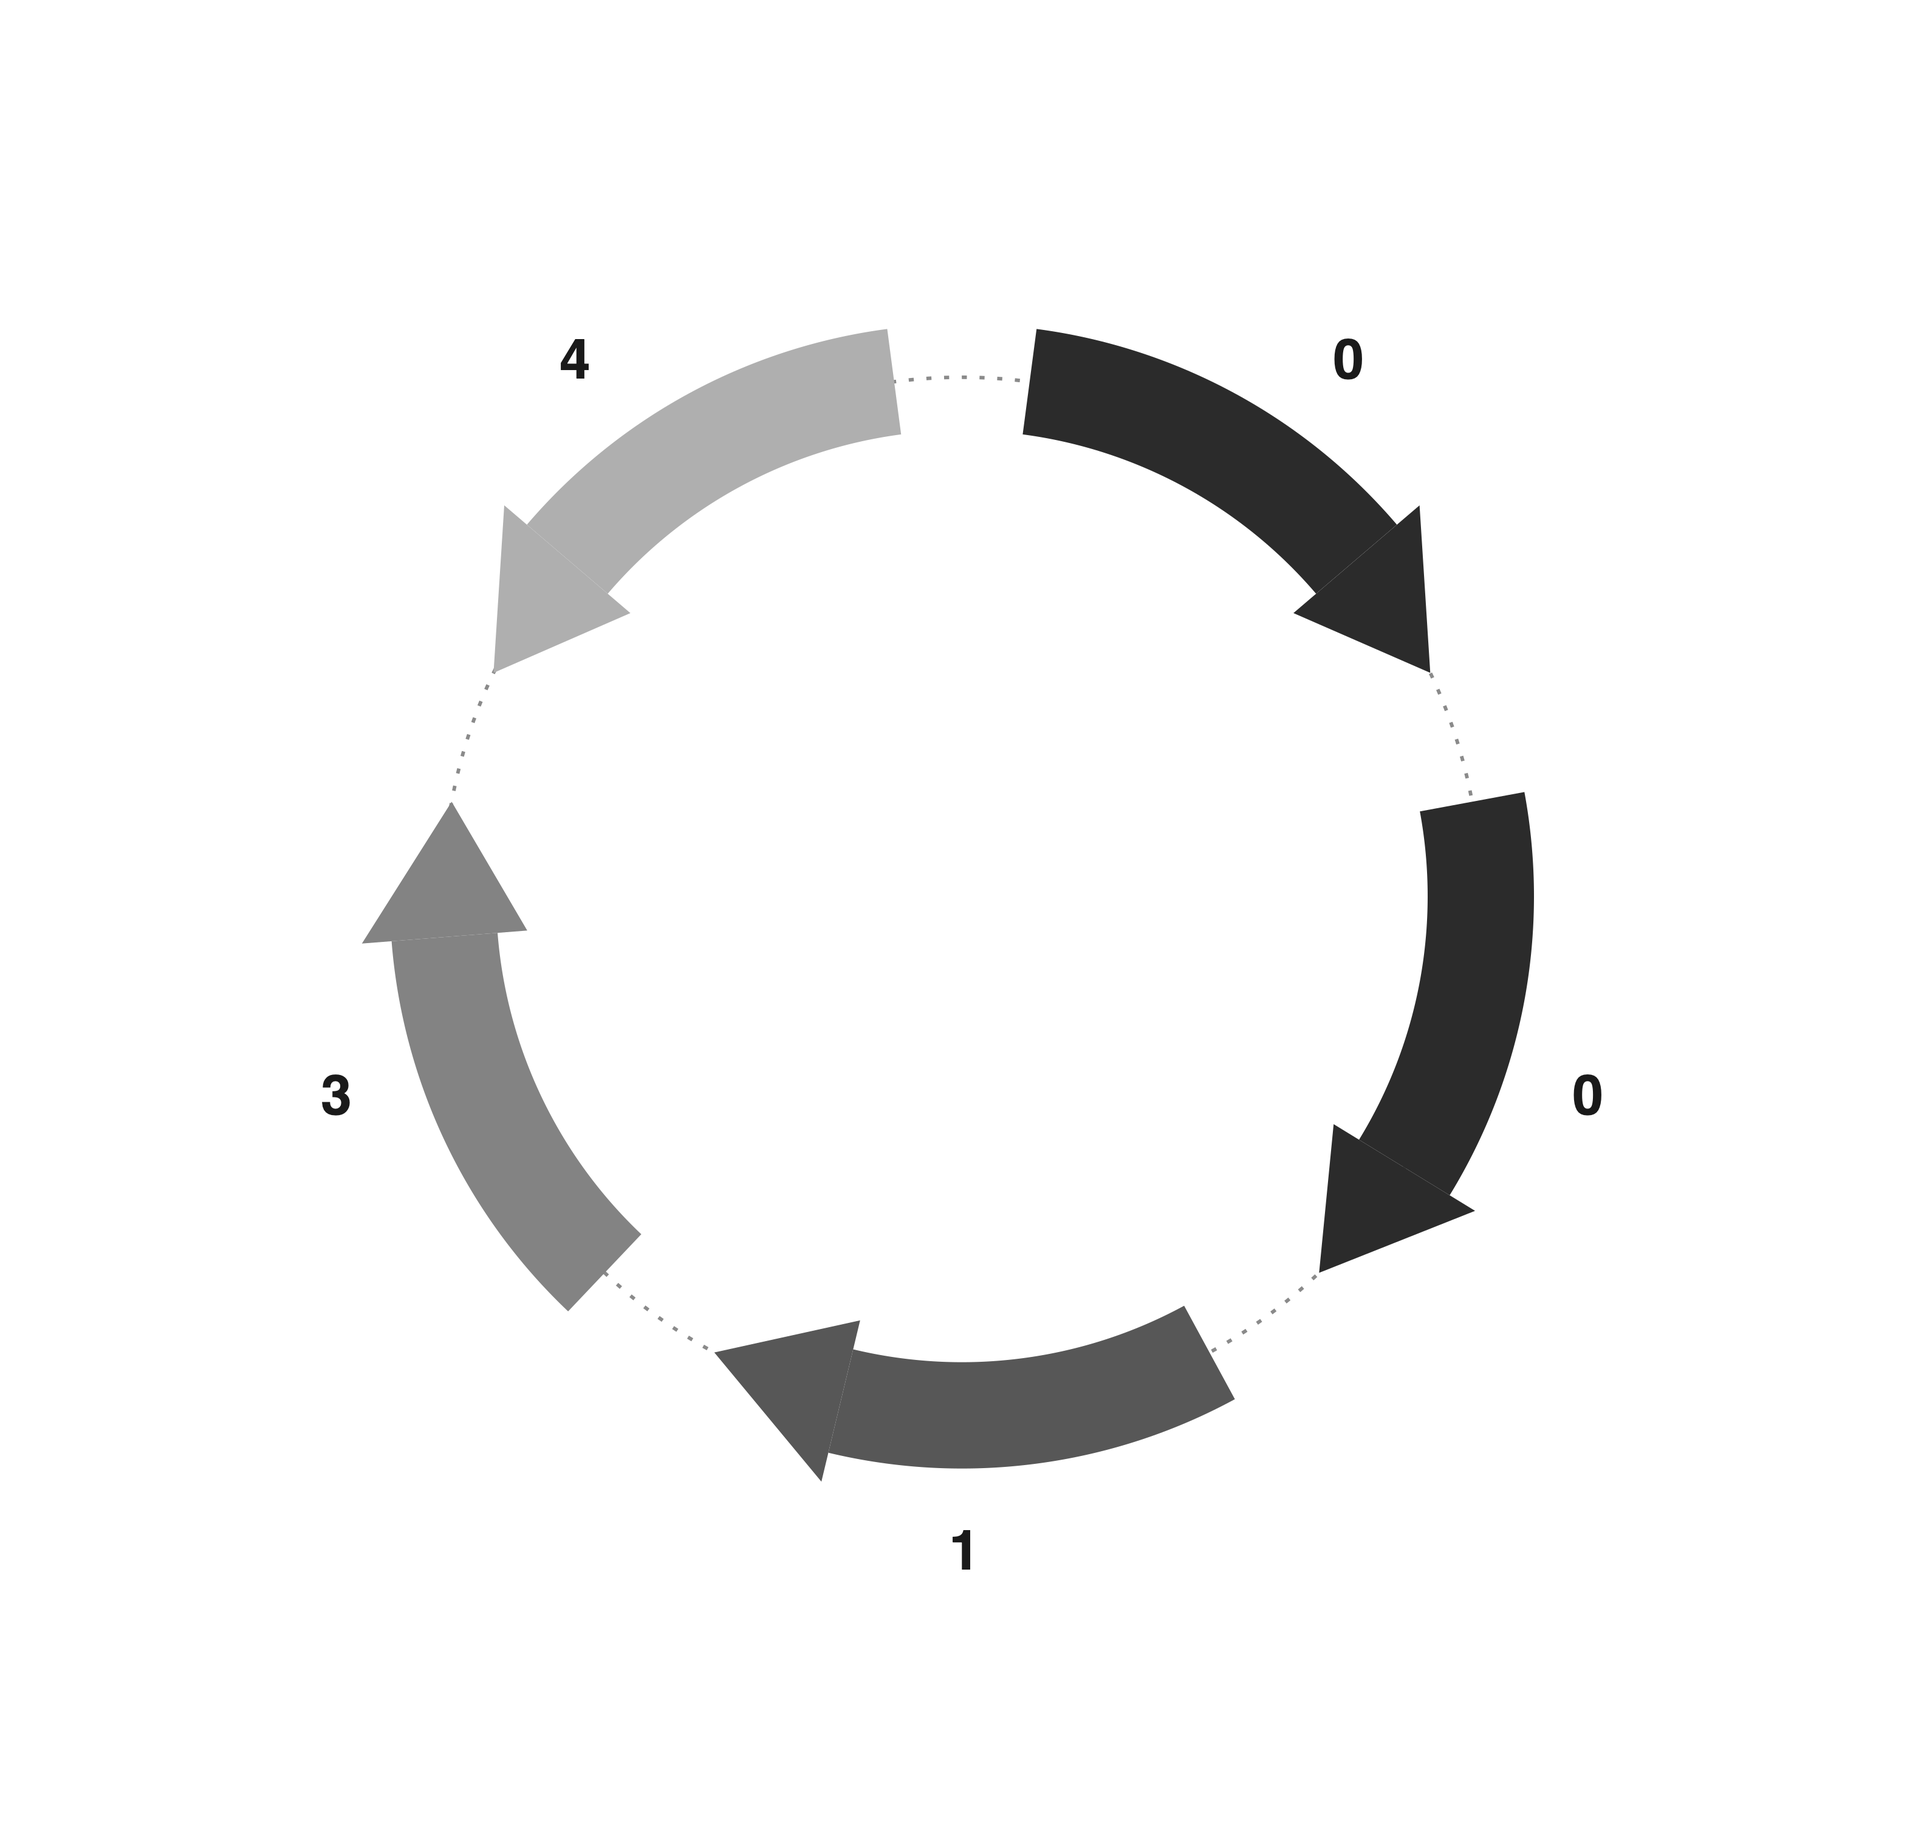
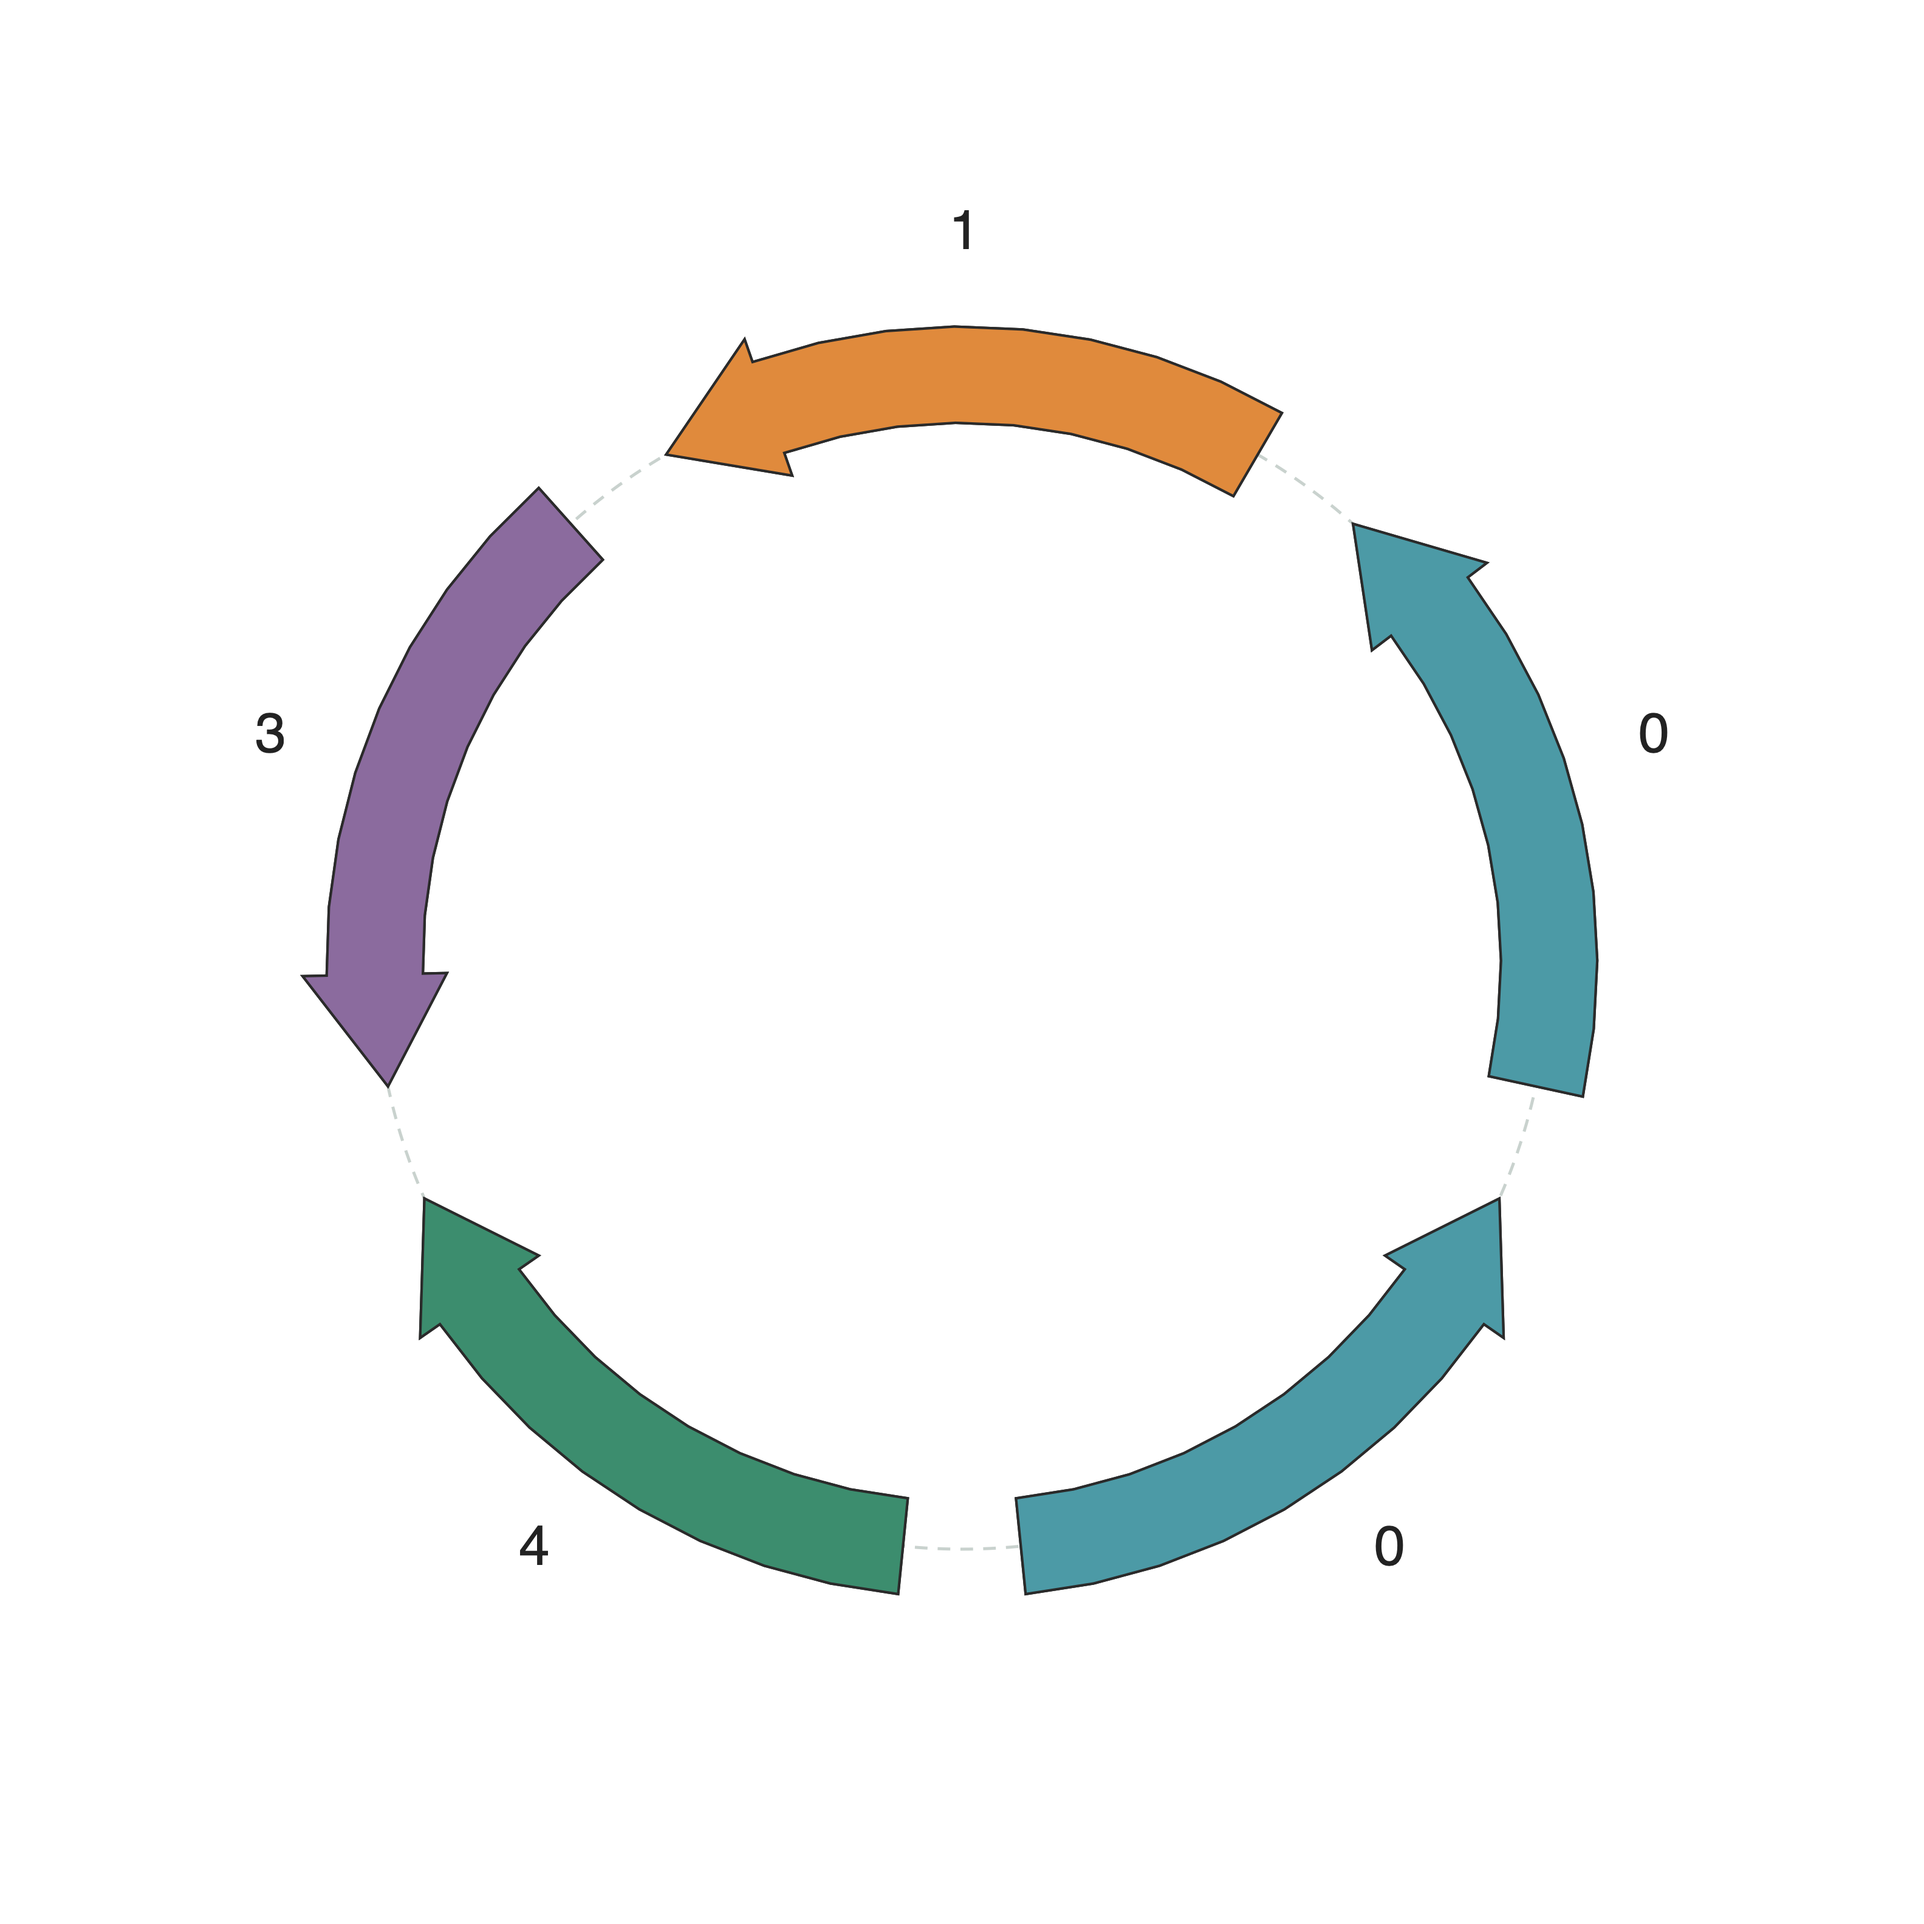
docs(figures): the ordered chromosome is drawn by Phylustrator, in colour
Yes, it can be generated in Phylustrator, and now is: the chunky arrow bent along a
ring is `plot(genome, layout="circular")` with `gene_style="arrow"`, the same call
the gallery's inversion example makes. What stood in the way was a missing layer and
a bug, both now in Phylustrator 0.2.6 — `gene_labels` writes the family beside each
gene, and a circular arrowhead flares again instead of tapering into a wedge.

That retires about eighty lines of hand-rolled trigonometry for arcs, arrowheads and
label placement, which meant this one figure drew genes by rules nothing else in the
project shared. Families are told apart by hue now rather than by four greys, in the
gallery's categorical colours, so a family reads as an identity in the book and in
the gallery alike. (215)

diff --git a/figures/scripts/fig_ordered_chromosome.py b/figures/scripts/fig_ordered_chromosome.py
@@ -10,102 +10,70 @@ The genome is the leaf ``n4`` of the chapter's first example (``seed=231``); the
 from that run, not drawn by hand, so it cannot drift from what the code produces. Change the
 chapter's seed and this has to be re-run — the two constants below are the chapter's.
 
-House style: near-black ink, ColorBrewer identities, no title inside the figure (the manual captions
-it).
+**Drawn by Phylustrator**, which is the answer to a question the manual review asked of this figure:
+the chunky arrow bent along a ring is `plot(genome, layout="circular")` with `gene_style="arrow"`,
+the same call the gallery's inversion example makes. It used to be a hand-rolled ``drawsvg`` ring —
+about eighty lines of trigonometry for arcs, arrowheads and label placement — which meant this one
+figure drew genes by rules nothing else in the project shared. The family numbers around the ring
+are `gene_labels`, added to Phylustrator for it.
+
+House style: no title inside the figure (the manual captions it). The colours are the categorical
+four the gallery paints traits and states with, so a *family* reads as an identity here and there.
 
 Run:  python figures/scripts/fig_ordered_chromosome.py
 """
 
 from __future__ import annotations
 
-import math
 import sys
 from pathlib import Path
 
 sys.path.insert(0, str(Path(__file__).resolve().parent))
 
-import drawsvg as draw
+import phylustrator as ph
 
 from zombi2 import species
 from zombi2.genomes import simulate_genomes_ordered
-from zombi_style import save, FONT, INK, MUTED, FS_LABEL
+from zombi_style import save, FS_LABEL
 
-# families are told apart by shade, not hue — a dark-to-light grey ramp. Two genes of the same
-# family share a shade, so a tandem duplication reads as two neighbours of one grey.
-GREYS = ["#2b2b2b", "#575757", "#838383", "#afafaf"]
-
+#: Families are told apart by hue, not by shade. Two genes of one family share a colour, so a tandem
+#: duplication reads as two neighbours of one colour; four hues are enough for this chromosome and
+#: they are the gallery's, which keeps one categorical vocabulary across the project.
+PALETTE = ["#4C9AA6", "#E08A3C", "#8B6B9E", "#3C8D6E"]
 
 SEED = 231                    # the chapter's first example
 LEAF = "n4"                   # the leaf it reads
 
+W = 760                       # square: a ring has no long side
 
-def _leaf_order(node_label: str = LEAF):
-    """The (family, strand) order of one extant leaf of the chapter's first example."""
+
+def _leaf_chromosome(node_label: str = LEAF):
+    """The chromosome of one extant leaf of the chapter's first example."""
     tree = species.simulate_species_tree(birth=1.0, death=0.1, n_extant=4, seed=SEED)
     g = simulate_genomes_ordered(tree, duplication=0.3, loss=0.2, origination=0.15, inversion=0.5,
                                  chromosomes=1, initial_families=5, seed=SEED)
-    target = int(node_label[1:])
-    chrom = g.node_genomes[target][0]
-    return [(gene.family, gene.strand) for gene in chrom.genes]
-
-
-W, H = 760, 720
-CX, CY = W / 2, H / 2 - 6
-R = 205                       # ring radius (gene centre-line)
-GENE_W = 42                   # gene arc thickness
-GAP_DEG = 15                  # blank arc between neighbouring genes
-HEAD = 15                     # arrowhead length in degrees of extra reach beyond the arc
-HEAD_HALF = GENE_W * 0.78     # half-width of the arrowhead base (a touch wider than the body)
-
-
-def _xy(angle_deg: float, radius: float) -> tuple[float, float]:
-    """A point at ``angle_deg`` clockwise from 12 o'clock, on ``radius``."""
-    a = math.radians(angle_deg)
-    return CX + radius * math.sin(a), CY - radius * math.cos(a)
-
-
-def _gene_arc(d, a0: float, a1: float, strand: int, colour: str) -> None:
-    """One gene as a thick arc from ``a0`` to ``a1`` (clockwise degrees), arrowhead at the end the
-    strand reads toward: the high-angle end for ``+1``, the low-angle end for ``−1``."""
-    lead, tail = (a1, a0) if strand == 1 else (a0, a1)
-    body_lead = lead - math.copysign(HEAD, lead - tail)      # leave room for the head
-    # the arc body (a stroked path along the ring)
-    x0, y0 = _xy(tail, R)
-    x1, y1 = _xy(body_lead, R)
-    large = 1 if abs(body_lead - tail) > 180 else 0
-    sweep = 1 if body_lead > tail else 0
-    d.append(draw.Path(f"M {x0:.2f} {y0:.2f} A {R} {R} 0 {large} {sweep} {x1:.2f} {y1:.2f}",
-                       stroke=colour, stroke_width=GENE_W, fill="none", stroke_linecap="butt"))
-    # the arrowhead: apex on the ring at `lead`, base a short chord just wider than the body
-    apex = _xy(lead, R)
-    br = _xy(body_lead, R + HEAD_HALF)
-    bl = _xy(body_lead, R - HEAD_HALF)
-    d.append(draw.Lines(apex[0], apex[1], br[0], br[1], bl[0], bl[1], close=True, fill=colour))
+    return g.node_genomes[int(node_label[1:])][0]
 
 
 def render() -> None:
-    order = _leaf_order(LEAF)
-    n = len(order)
-    families = sorted({fam for fam, _ in order})
-    colour_of = {fam: GREYS[i % len(GREYS)] for i, fam in enumerate(families)}
+    chrom = _leaf_chromosome(LEAF)
+    genes = [ph.genomes.Gene(family=str(gene.family), strand=gene.strand, position=i)
+             for i, gene in enumerate(chrom.genes)]
+    genome = ph.genomes.Genome(LEAF, [ph.genomes.Chromosome(str(chrom.id), genes,
+                                                            topology=chrom.topology)])
+    families = sorted({g.family for g in genes}, key=int)
+    palette = {fam: PALETTE[i % len(PALETTE)] for i, fam in enumerate(families)}
 
-    d = draw.Drawing(W, H, origin=(0, 0))
-    d.append(draw.Rectangle(0, 0, W, H, fill="white"))
-    # the backbone ring, faint, so the chromosome reads as a closed loop behind the genes
-    d.append(draw.Circle(CX, CY, R, stroke=MUTED, stroke_width=1.4, fill="none",
-                         stroke_dasharray="2,5"))
-
-    slot = 360.0 / n
-    for i, (fam, strand) in enumerate(order):
-        a0 = i * slot + GAP_DEG / 2
-        a1 = (i + 1) * slot - GAP_DEG / 2
-        _gene_arc(d, a0, a1, strand, colour_of[fam])
-        # the family label, outside the ring at the gene's mid-angle
-        lx, ly = _xy((a0 + a1) / 2, R + GENE_W / 2 + 34)
-        d.append(draw.Text(str(fam), FS_LABEL, lx, ly, font_family=FONT, fill=INK,
-                           font_weight="bold", text_anchor="middle", dominant_baseline="central"))
-
-    save(d, "ordered_chromosome")
+    # ring_gene_frac slims the body so the flared head reads as a head rather than a bulge; the
+    # margin is what the family numbers outside the ring sit in.
+    style = ph.Style(width=W, height=W, margin=int(W * 0.17), gene_stroke_width=1.0,
+                     ring_gene_frac=0.20, font_size=FS_LABEL)
+    figure = (ph.genomes.plot(genome, layout="circular", style=style)
+              + ph.genomes.genes(by="family", palette=palette)
+              + ph.genomes.gene_labels(pad=0.13))
+    save(figure.as_svg(), "ordered_chromosome")
+    print(f"  {LEAF}: [ " + " ".join(f"{g.family}{'+' if g.strand > 0 else '-'}" for g in genes)
+          + " ]  " + ", ".join(f"{f}={palette[f]}" for f in families))
 
 
 if __name__ == "__main__":

diff --git a/manual/book/ch5.md b/manual/book/ch5.md
@@ -24,7 +24,7 @@ g.gene_trees[0].to_newick("extant")
 # (((n5_g25:0.02994724,n6_g30:0.02994724)speciation_n3:0.3253988,(n4_g21:0.227248,n4_g22:0.227248)duplication_n4:0.128098)speciation_n1:0.1181814,n2_g9:0.4735275)speciation_n0:1.090775;
 ```
 
-![Leaf `n4`, the same chromosome `[ 0+ 0+ 1+ 3+ 4− ]` drawn as the ring it is. Each gene is an arrow that points the way its strand reads, and its shade marks its family. The two copies of family `0` are a tandem duplication, one shade side by side; family `4`, left backward by an inversion, is the one arrow pointing against the flow.](figures/ordered_chromosome.pdf){width=58%}
+![Leaf `n4`, the same chromosome `[ 0+ 0+ 1+ 3+ 4− ]` drawn as the ring it is. Each gene is an arrow that points the way its strand reads, and its colour marks its family. The two copies of family `0` are a tandem duplication, one colour side by side; family `4`, left backward by an inversion, is the one arrow pointing against the flow.](figures/ordered_chromosome.pdf){width=58%}
 
 ## The karyotype
 
